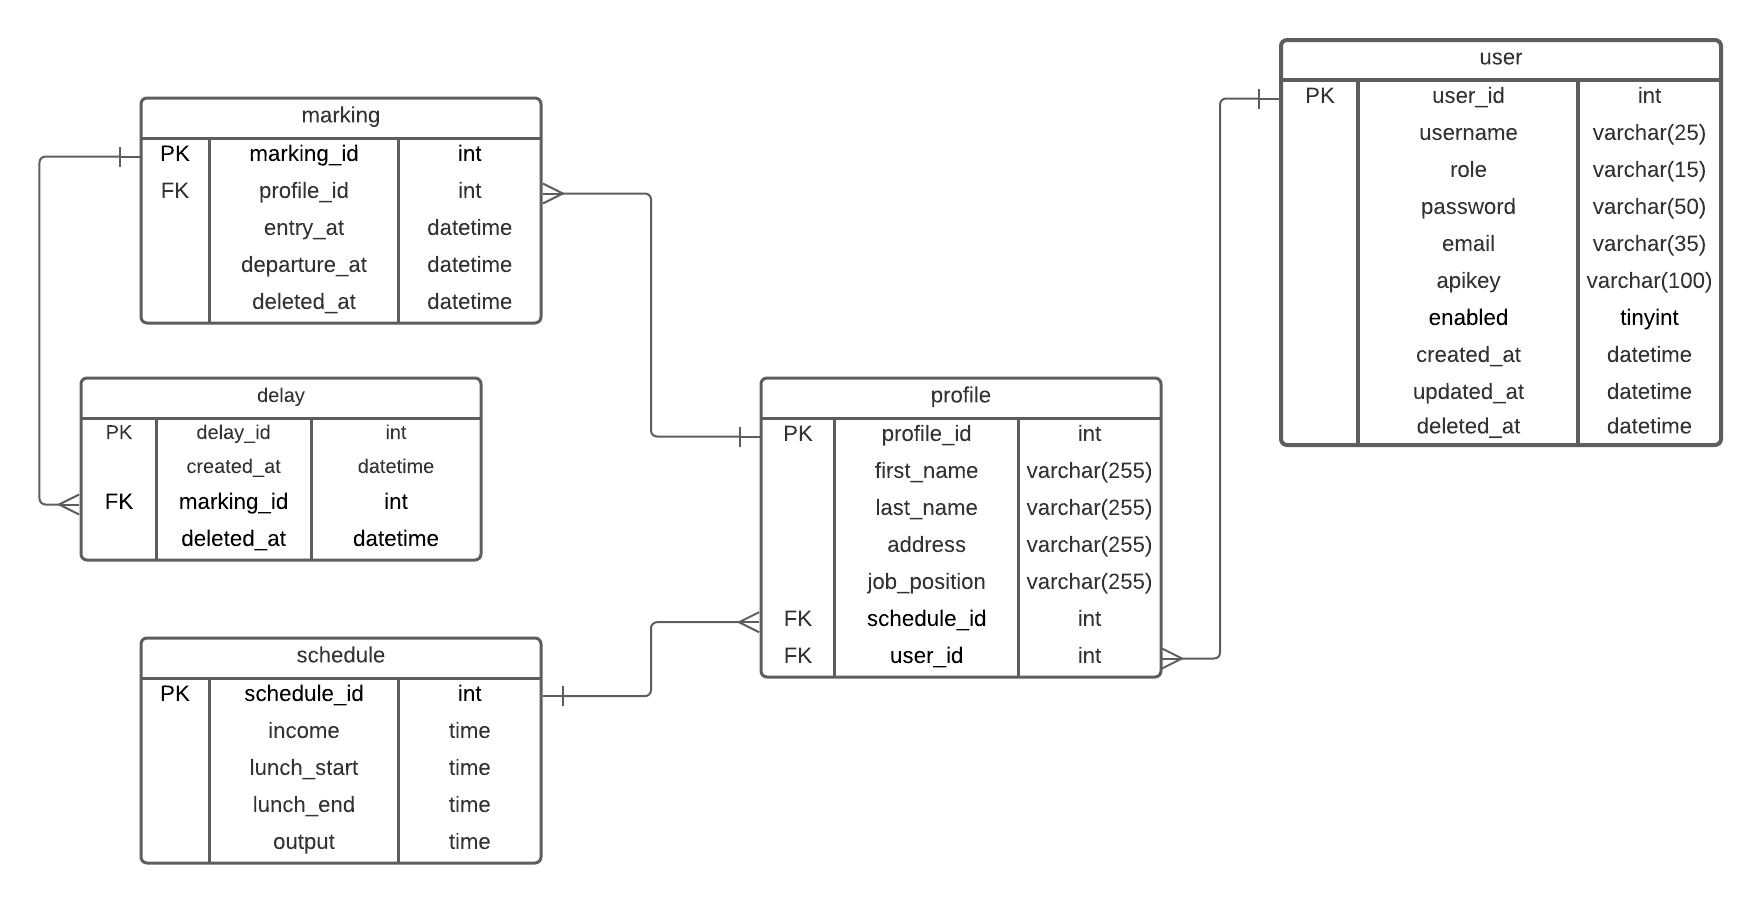
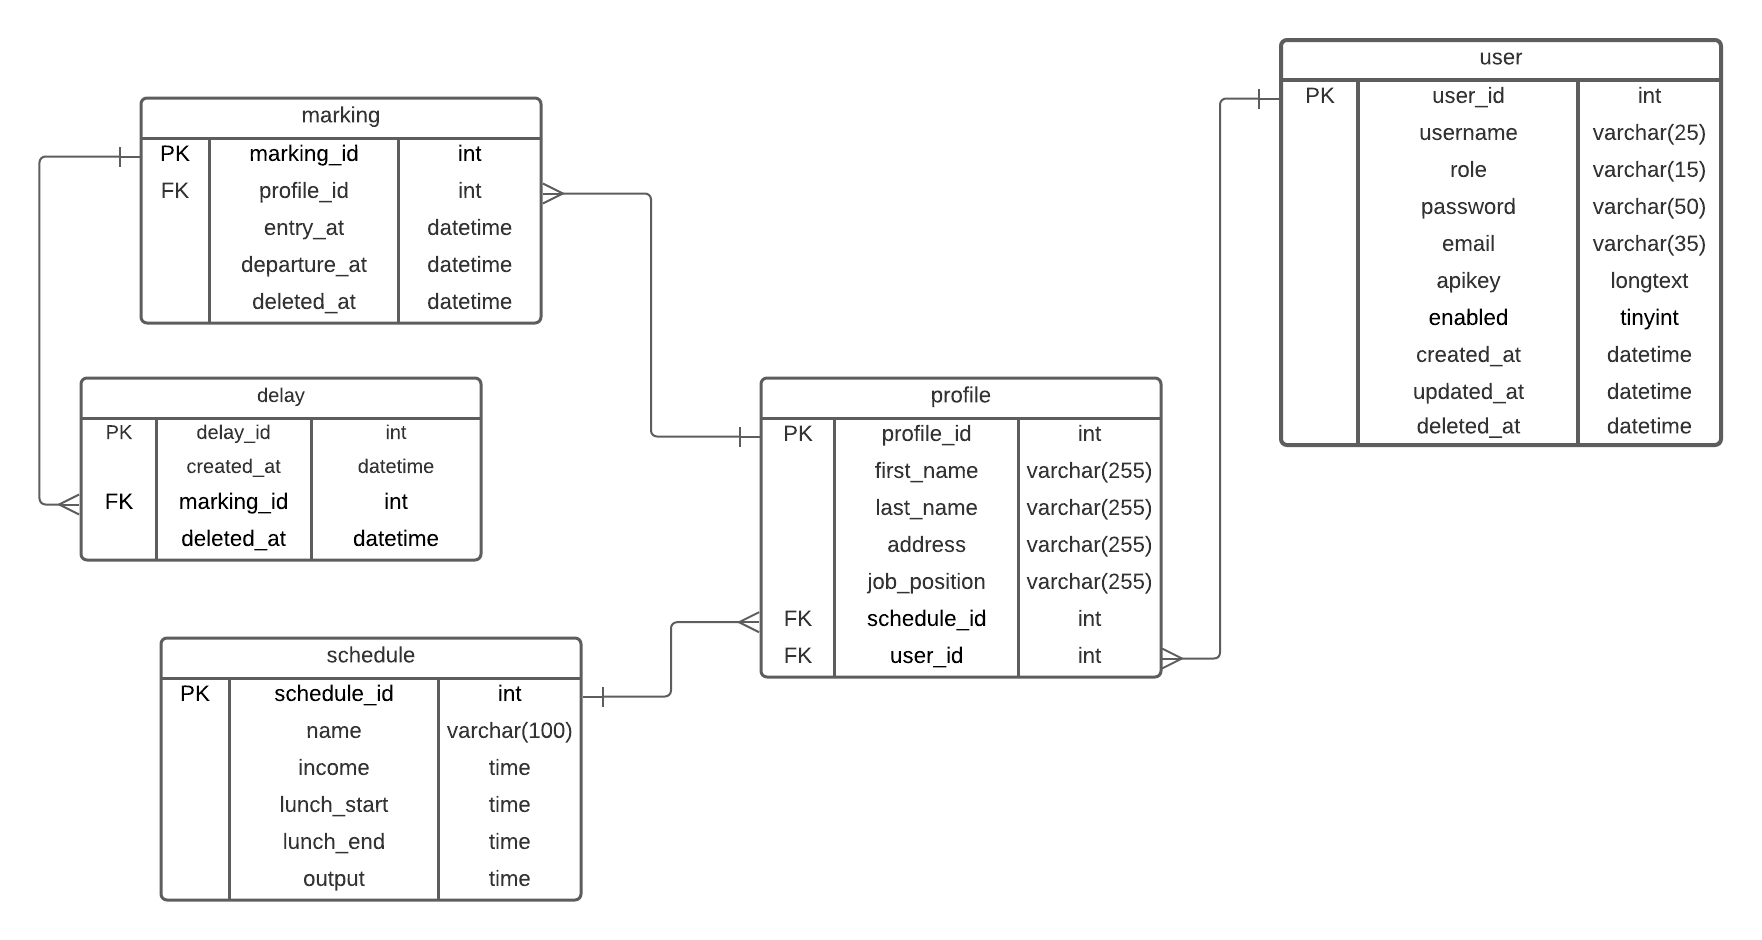
Changes in schedule model

diff --git a/src/main/java/com/umg/rroca/wtorres/chequealo/model/Schedule.java b/src/main/java/com/umg/rroca/wtorres/chequealo/model/Schedule.java
@@ -14,6 +14,9 @@ public class Schedule {
     @GeneratedValue(strategy = GenerationType.AUTO)
     private long scheduleId;
 
+    @Column(name = "name", nullable = false)
+    private String name;
+
     @Column(name = "income", nullable = false)
     private Date income;
 
@@ -23,7 +26,7 @@ public class Schedule {
     @Column(name = "lunch_end", nullable = false)
     private Date lunchEnd;
 
-    @Column(name = "job_position", nullable = false)
+    @Column(name = "output", nullable = false)
     private Date output;
 
     /**
@@ -42,6 +45,24 @@ public class Schedule {
      */
     public void setId(long id) {
         this.scheduleId = id;
+    }
+
+    /**
+     * Gets name.
+     *
+     * @return the name
+     */
+    public String getName() {
+        return name;
+    }
+
+    /**
+     * Sets name.
+     *
+     * @param name the name
+     */
+    public void setName(String name) {
+        this.name = name;
     }
 
     /**
@@ -120,6 +141,7 @@ public class Schedule {
     public String toString() {
         return "Schedule{" +
                 "id=" + scheduleId +
+                ", name='" + name + '\'' +
                 ", income='" + income.toString() + '\'' +
                 ", lunchStart='" + lunchStart.toString() + '\'' +
                 ", lunchEnd='" + lunchEnd.toString() + '\'' +
